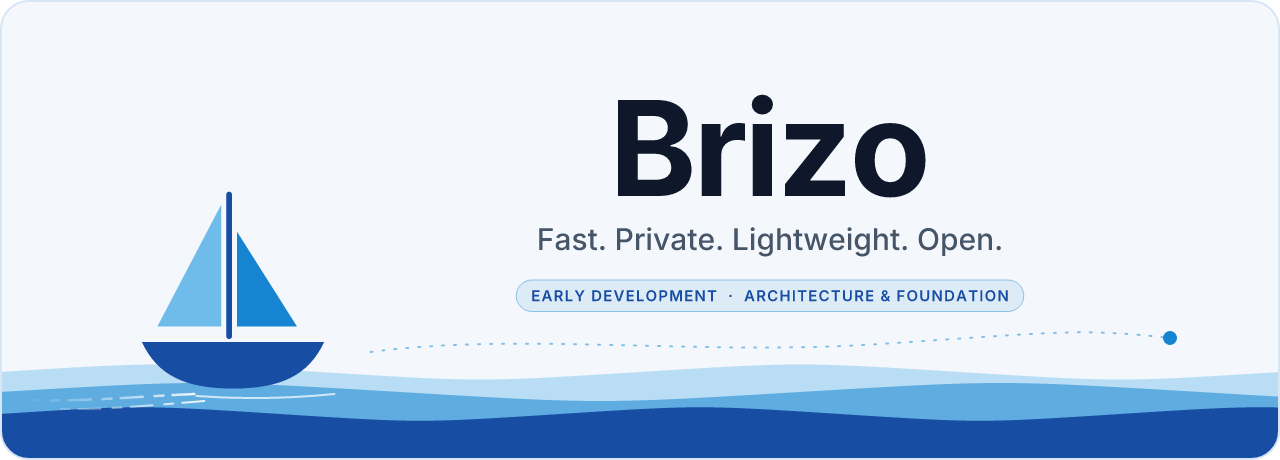
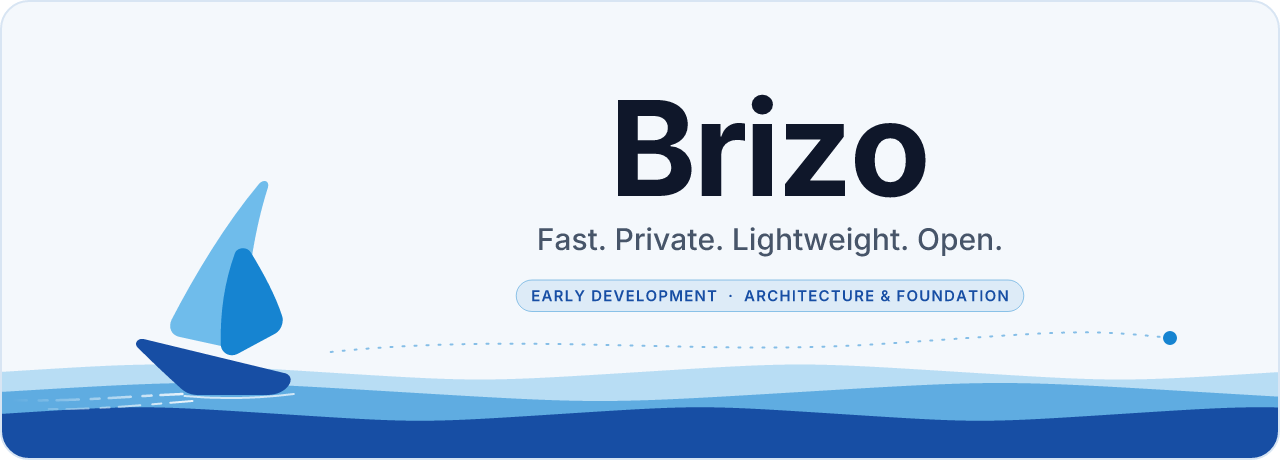
Publish owner-selected V2 sailing hero; compact light/dark preview control
- Public hero = approved V2 with the exact provisional mark (geometry and
  colours identical to the private V2), generated from the master by
  build-private-hero.mjs in public mode. The rejected temporary sloop is
  removed (recoverable from e809bd7).
- validate.mjs whitelists ONLY assets/readme/hero-{light,dark}.svg for logo
  geometry and requires their provenance banner; all other logo assets
  remain protected.
- The long appearance-settings line is replaced by a collapsed sun/moon
  <details> control that shows explicit light and dark previews (with
  reduced-motion fallbacks) regardless of the viewer's theme.
- Docs: D-015/D-016/D-017, provenance status unchanged (rights not
  established), CLAUDE.md branding exception and attribution policy.

Claude-Session: https://claude.ai/code/session_01EcwpM4mqBSRsgukaGKjCz5

Changed region(s): [[0.0625, 0.3957, 0.25, 0.913], [0.3125, 0.7304, 0.75, 0.7609], [0.7812, 0.7, 0.875, 0.7304]]

diff --git a/README.md b/README.md
@@ -4,10 +4,24 @@
   <source media="(prefers-reduced-motion: reduce) and (prefers-color-scheme: dark)" srcset="assets/readme/static/hero-dark.png">
   <source media="(prefers-reduced-motion: reduce)" srcset="assets/readme/static/hero-light.png">
   <source media="(prefers-color-scheme: dark)" srcset="assets/readme/hero-dark.svg">
-  <img alt="Brizo — Fast. Private. Lightweight. Open. An illustrative sailboat sails across animated waves. Early development: architecture and foundation." src="assets/readme/hero-light.svg" width="100%">
+  <img alt="Brizo — Fast. Private. Lightweight. Open. The Brizo sailboat sails across animated waves. Early development: architecture and foundation." src="assets/readme/hero-light.svg" width="100%">
 </picture>
 
-<sub><a href="https://github.com/settings/appearance" title="Opens GitHub's appearance settings (sign-in required). README content cannot change your theme."><img src="assets/readme/icon-sun.svg" width="12" height="12" alt="Light"><img src="assets/readme/icon-moon.svg" width="12" height="12" alt="Dark"></a> Artwork adapts to light and dark mode automatically · <a href="https://github.com/settings/appearance">GitHub appearance settings</a></sub>
+<div align="right"><details><summary><img src="assets/readme/icon-sun.svg" width="14" height="14" alt="Light preview">&nbsp;<img src="assets/readme/icon-moon.svg" width="14" height="14" alt="Dark preview"></summary>
+
+<picture>
+  <source media="(prefers-reduced-motion: reduce)" srcset="assets/readme/static/hero-light.png">
+  <img alt="Light preview of the Brizo banner" src="assets/readme/hero-light.svg" width="100%">
+</picture>
+<sub>Light preview</sub>
+
+<picture>
+  <source media="(prefers-reduced-motion: reduce)" srcset="assets/readme/static/hero-dark.png">
+  <img alt="Dark preview of the Brizo banner" src="assets/readme/hero-dark.svg" width="100%">
+</picture>
+<sub>Dark preview</sub>
+
+</details></div>
 
 <br>
 
@@ -222,11 +236,10 @@ no licence is granted for the contents of this repository. See
 ## Brand notice
 
 “Brizo” is a working name and has **not** received trademark clearance. The
-logo shown to the owner for review is a provisional candidate whose provenance
-is unresolved, so it is intentionally **not** published here. The sailboat in
-the animated banner is a **temporary illustration, not the Brizo logo**; all
-README artwork is original and source-independent. Details:
-[docs/BRAND_PROVENANCE.md](docs/BRAND_PROVENANCE.md).
+sailboat in the animated banner is the owner-selected **provisional** Brizo mark,
+published by owner decision. Its provenance and usage rights are **unresolved**:
+it is not claimed to be independently originated, exclusively owned or legally
+cleared. Details: [docs/BRAND_PROVENANCE.md](docs/BRAND_PROVENANCE.md).
 
 <div align="center">
 <br>

diff --git a/docs/DECISIONS.md b/docs/DECISIONS.md
@@ -77,7 +77,7 @@ a compact sun/moon note with an accurately labelled link to
 `https://github.com/settings/appearance`. A real Sun/Moon toggle is specified
 for the future website (`docs/website/`), but is not deployed.
 
-## D-013 · 2026-11-25 · Accepted: Public hero uses a temporary, distinct sailboat motif
+## D-013 · 2026-11-25 · Superseded by D-015: Public hero uses a temporary, distinct sailboat motif
 The owner approved hero V2's composition and animation. A bounded provenance check
 (BRAND_PROVENANCE) did not establish usage rights for the provisional logo. The
 public README hero therefore keeps V2's layout, motion, waves, wake, wordmark
@@ -89,3 +89,22 @@ passing the private boat renderer to `hero()`, after rights are confirmed.
 ## D-014 · 2026-11-25 · Risk recorded: "BRIZO" Class 9 registration reported
 Aggregators report Delta Faucet Company's BRIZO registration covering Class 9.
 To be verified in USPTO TSDR; the project name needs owner and legal review before public launch.
+
+## D-015 · 2026-11-25 · Accepted (owner decision): Publish the provisional V2 sailing hero
+The owner rejected the temporary sloop (D-013) and chose to publish the approved V2
+hero, with the exact provisional mark, geometry and colours, despite the unresolved
+provenance. This decision does **not** establish third-party usage rights or
+trademark clearance (see BRAND_PROVENANCE, D-014). Scope is limited to
+`assets/readme/hero-{light,dark}.svg` and their static PNGs, whitelisted in
+`validate.mjs`. All other logo assets (exports, icons, master, reference) stay
+private. The temporary motif remains recoverable from git history (commit `e809bd7`).
+
+## D-016 · 2026-11-25 · Accepted: README appearance previews
+The long appearance-settings line was replaced with a collapsed `<details>` control
+(sun/moon icons, bottom-right of the hero). It shows explicit light **and** dark
+renderings of the banner whatever the viewer's theme, with reduced-motion fallbacks.
+It does not change GitHub's theme or the main hero. No scripts, iframes or external services.
+
+## D-017 · 2026-11-25 · Accepted: Commit attribution policy
+Future commits are authored as the owner's public GitHub no-reply identity, with no
+Claude co-author trailer (CLAUDE.md §5a). Existing history is unchanged.

diff --git a/CLAUDE.md b/CLAUDE.md
@@ -49,9 +49,14 @@ browser implementation yet. Read this file fully before doing anything.
   (`docs/BRAND_PROVENANCE.md`). While unresolved and the repository is public:
   - do **not** commit the logo master, logo-derived exports, or the owner's
     reference image; they live in the git-ignored `branding-private/` folder
-    and in the owner's private review page;
-  - README / public visuals must use source-independent artwork only
-    (waves, wind, typography).
+    and in the owner's private review pages;
+  - **sole exception (D-015):** the owner chose to publish the V2 sailing hero,
+    so `assets/readme/hero-{light,dark}.svg` (+ their static PNGs) may contain
+    the provisional mark. They are generated by
+    `node scripts/brand/build-private-hero.mjs --public`. `validate.mjs`
+    whitelists exactly these files. Never widen this list without owner approval;
+  - never describe the mark as cleared, owned or independently originated;
+  - never substitute or redesign the boat without owner approval.
 - Use only properly licensed fonts (currently Inter, SIL OFL 1.1). Never use
   proprietary assets from Chrome, Firefox, Brave, Safari or other browsers.
 
@@ -64,6 +69,19 @@ browser implementation yet. Read this file fully before doing anything.
   incrementally** — do not wait until a task is finished.
 - **Do not merge pull requests** and **do not publish releases** without
   explicit owner approval.
+
+## 5a. Commit attribution (owner policy, 2026-11-25)
+
+- Author commits with the **project owner's public GitHub identity**:
+  `Ishara Lakshan <31559535+ish4ra@users.noreply.github.com>`
+  (`git config user.name` / `user.email` in the clone). The owner directs and
+  approves this AI-assisted work.
+- Do **not** add `Co-Authored-By: Claude …` trailers. Do not use AI or bot author
+  identities, and never invent contributor accounts.
+- For transparency, a single `Claude-Session: <url>` trailer may be kept. It
+  links a session, not a GitHub account, and does not create a contributor entry.
+- Never use the owner's private email addresses. Never rewrite existing history to
+  change attribution without explicit owner approval.
 
 ## 6. Cost rules
 

diff --git a/docs/BRAND_PROVENANCE.md b/docs/BRAND_PROVENANCE.md
@@ -9,8 +9,8 @@ Last reviewed: 2026-11-24 (Task 001). **Nothing in this document is legal advice
 | Name "Brizo" / "Brizo Browser" | ⚠ **No trademark clearance performed** |
 | Logo reference image (owner-supplied, "Balanced" variation) | ⚠ **Provenance and copyright status unknown** |
 | Vector logo candidate (hand-built SVG following the reference) | ⚠ **Provisional.** Inherits the reference's unresolved status |
-| Animated sailing-logo hero (`branding-private/hero-v2/`) | ⚠ **Private.** Contains the provisional mark; shared with the owner only |
-| Temporary README sailboat motif (`MOTIF_BOAT` in `build-readme-assets.mjs`) | ✅ Original, generic sloop (mast, two straight triangular sails, crescent hull); README artwork only, **not a logo** |
+| Animated sailing hero V2 (`assets/readme/hero-*.svg`) | ⚠ **Published by owner decision (D-015)** despite unresolved provenance. This does not establish usage rights or trademark clearance |
+| Temporary sloop motif (D-013) | Rejected by the owner and removed; recoverable from commit `e809bd7` |
 | README artwork (`assets/readme/`) | ✅ Original, abstract (waves, wind, typography), generated by `scripts/brand/build-readme-assets.mjs` |
 | Font: Inter | ✅ SIL Open Font License 1.1 (`@fontsource/inter`) |
 | Tooling: `@resvg/resvg-js` (MPL-2.0), `opentype.js` (MIT) | ✅ Build-time only, not redistributed in assets |
@@ -78,3 +78,11 @@ a distinct temporary motif. Owner actions: (1) record where the reference came
 from and under what terms, or commission an original mark in the same direction
 with documented authorship; (2) verify serial 98131038 in USPTO TSDR and get
 legal advice on the name before any public release.
+
+## Update — owner decision to publish (2026-11-25)
+
+The owner reviewed the public README, rejected the temporary motif and chose to
+publish the provisional V2 hero. Nothing about the findings above has changed:
+usage rights are still **not established**, and the reported BRIZO Class 9
+registration is still unverified. The published files carry a provenance banner. All other
+logo-derived assets remain private.
